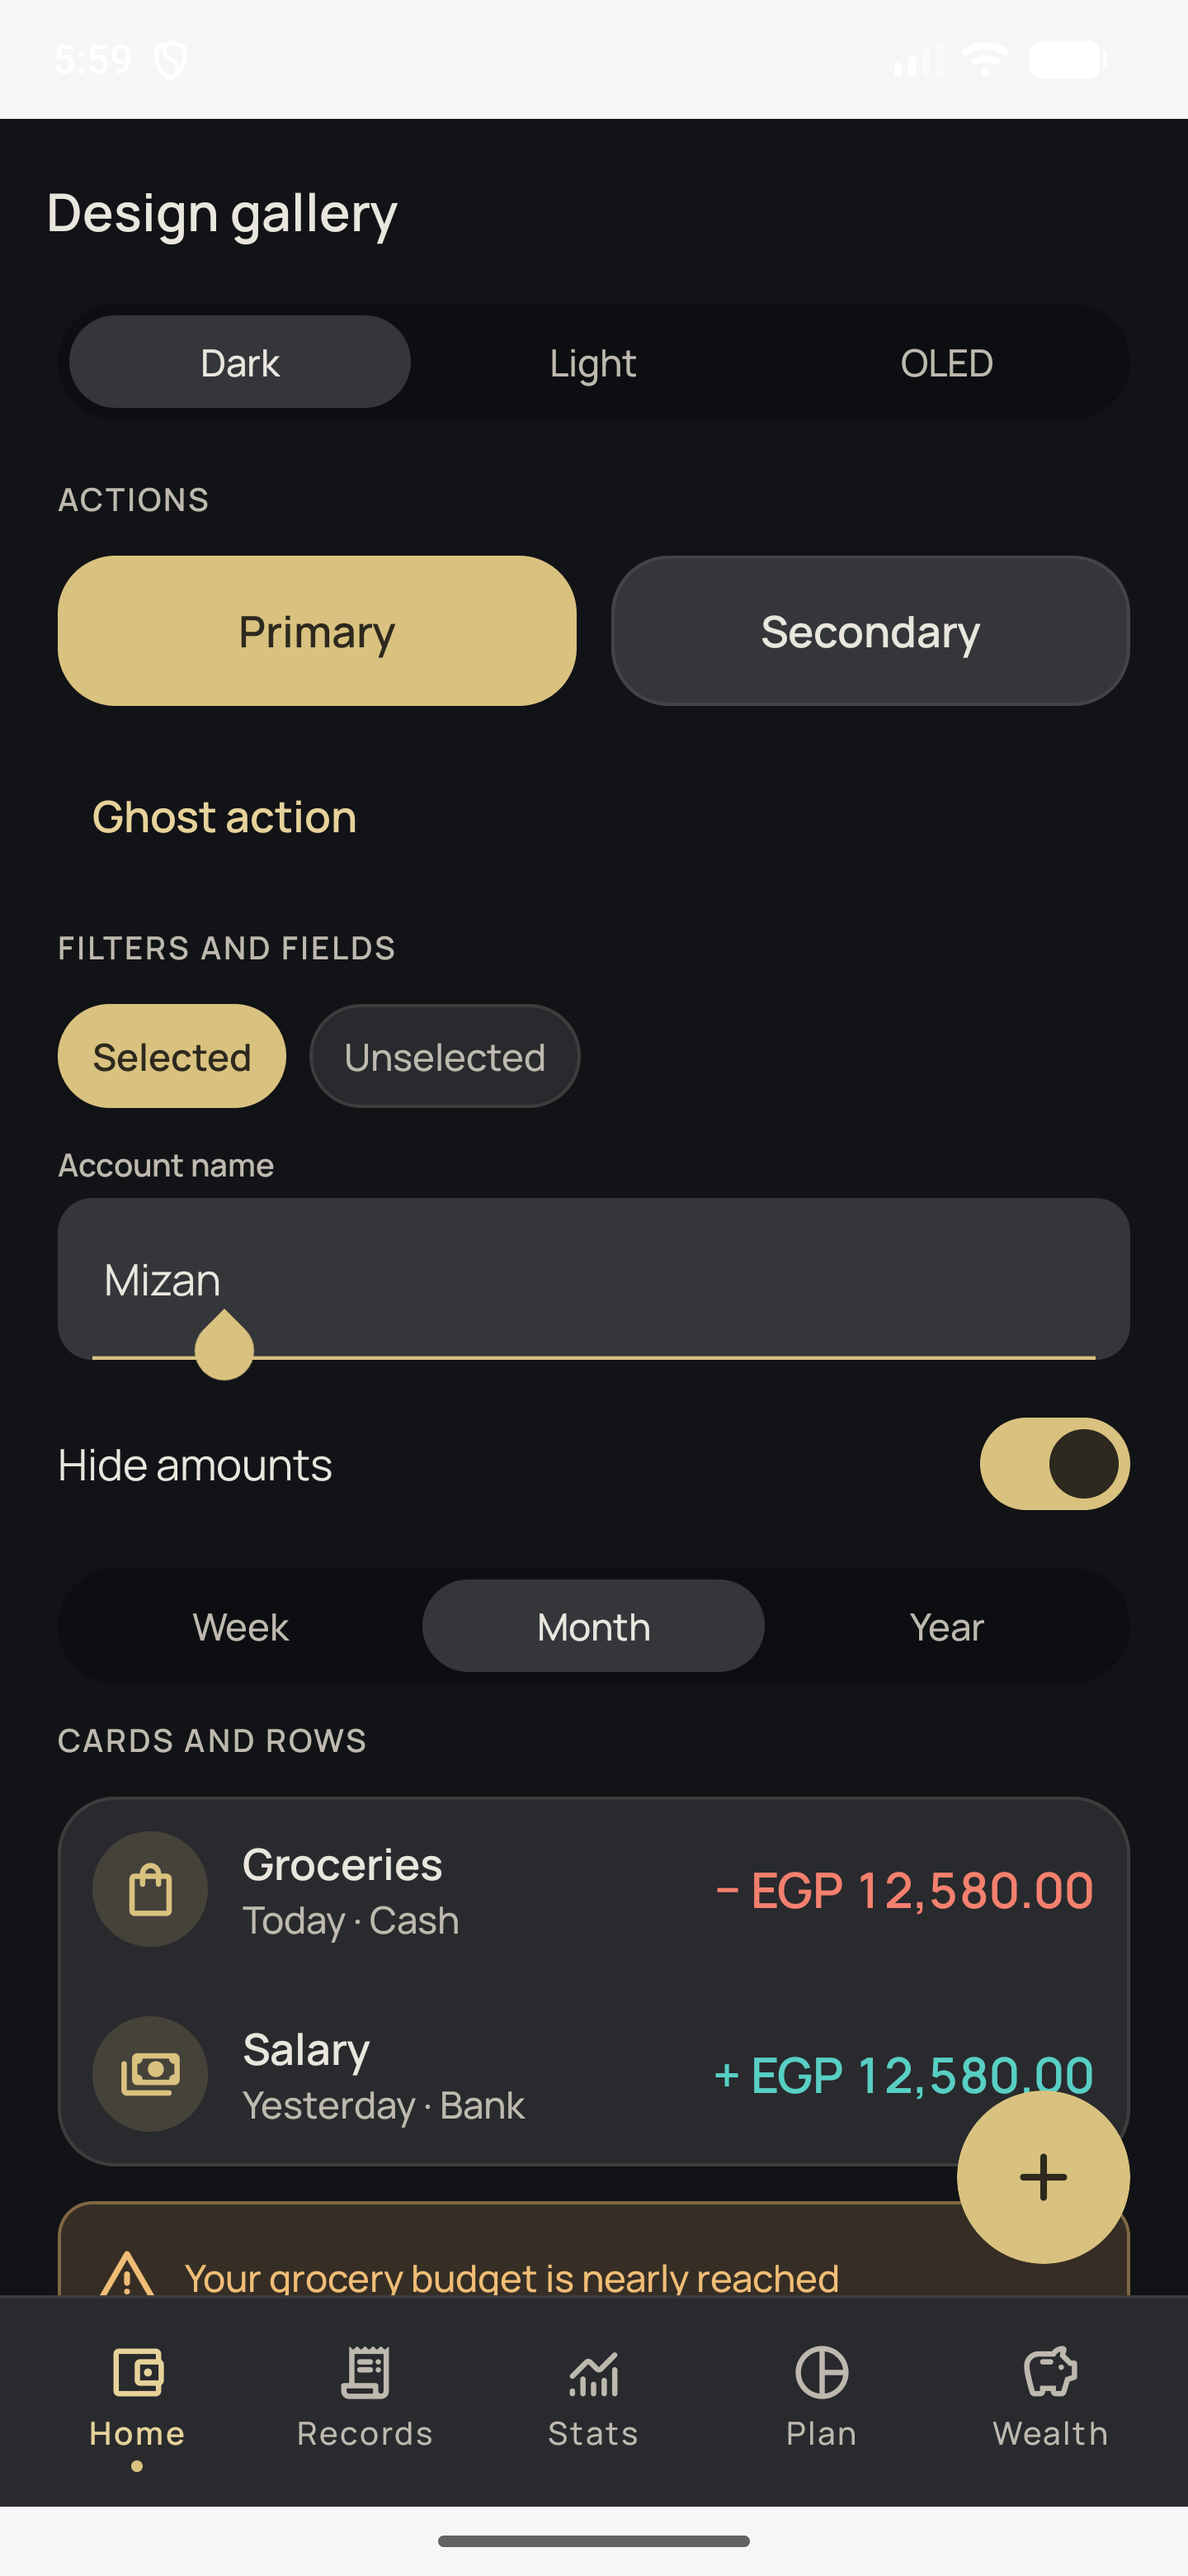
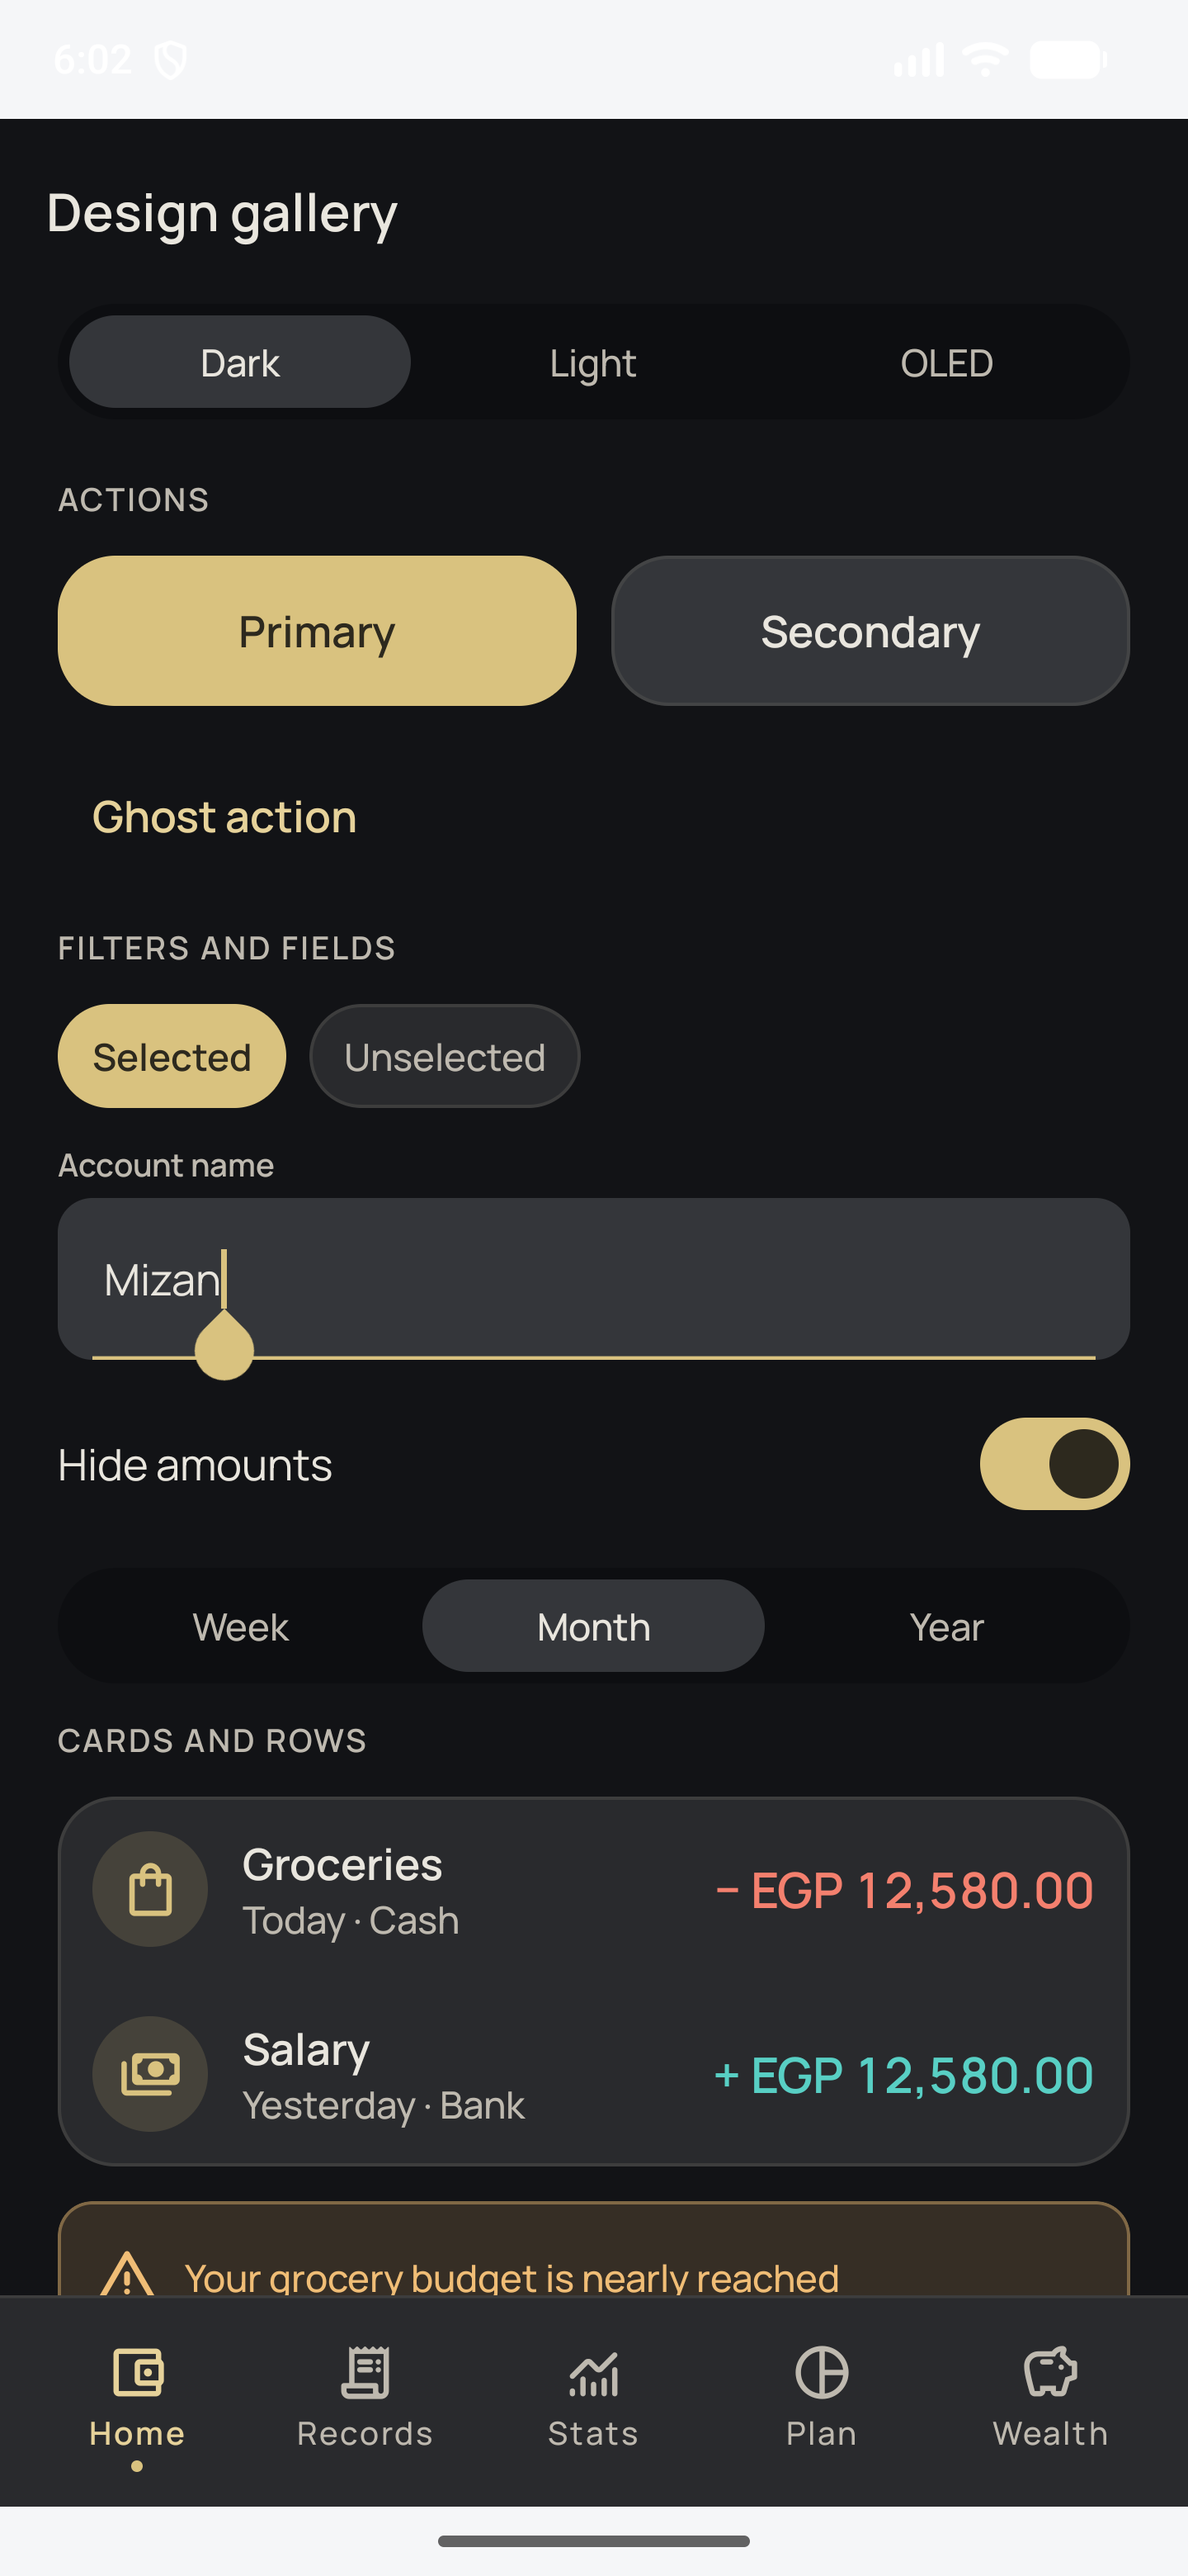
docs(ui): refresh verified P1 gallery captures

Changed region(s): [[0.7812, 0.8083, 0.9688, 0.9016]]

diff --git a/docs/UI/shots/p1/README.md b/docs/UI/shots/p1/README.md
@@ -4,7 +4,8 @@ These captures are fresh manual acceptance checks from the local Android Studio 
 
 - `gallery-dark.png`, `gallery-light.png`, and `gallery-oled.png` show the gallery at its top in each theme mode. The amount rows visibly show `− EGP 12,580.00` and `+ EGP 12,580.00` without clipping.
 - `gallery-dark-input-focused.png` shows the filled input's champagne focus hairline with the keyboard dismissed.
-- `gallery-dark-charts.png` shows the full square spending donut, centered total and change, chart card, grid, axis labels, and neighboring charts in dark mode.
+- `gallery-dark-charts-upper.png`, `gallery-dark-charts-middle.png`, and `gallery-dark-charts-bottom.png` show the chart-card sequence: Sparkline, Balance trend, Cash flow, Monthly change, Account share, and Budget used. Each has a title, grid, and first/middle/last labels.
+- `gallery-dark-charts.png` and `gallery-dark-charts-period.png` show the square spending donut and Period comparison. The donut's total and change fit in its hole, and its complete titled card and axis labels are visible.
 
 The gallery logs the exact `Money` passed to both sample rows under the `P1DesignGallery` Logcat tag. The checked values were `Money(minor=1258000, currency=EGP)`.
 

diff --git a/docs/CHANGELOG.md b/docs/CHANGELOG.md
@@ -29,7 +29,7 @@
 ## Unreleased
 
 - Refined the debug design gallery: static Manrope weights, fixed-size rounded controls, fitted Money amounts,
-  titled/gridlined chart cards, and a square, centered spending donut; added fresh dark/light/OLED emulator captures.
+  titled/gridlined chart cards, and a square, centered spending donut; removed the gallery FAB overlay so chart labels stay unobstructed; added fresh dark/light/OLED emulator captures.
 - Added instrumented V2 expense-entry coverage for the three-action flow, persisted negative/base
   amount, allowed-overdraft warning, duplicate warning, and edit-through-Trash round trip.
 - Added the V2 record-entry flow for expense, income, and transfer with the calculator, account/currency/category controls, date and More details, templates, saved income splits, transfer exchange/fee handling, duplicate confirmation, and Save & add another.
